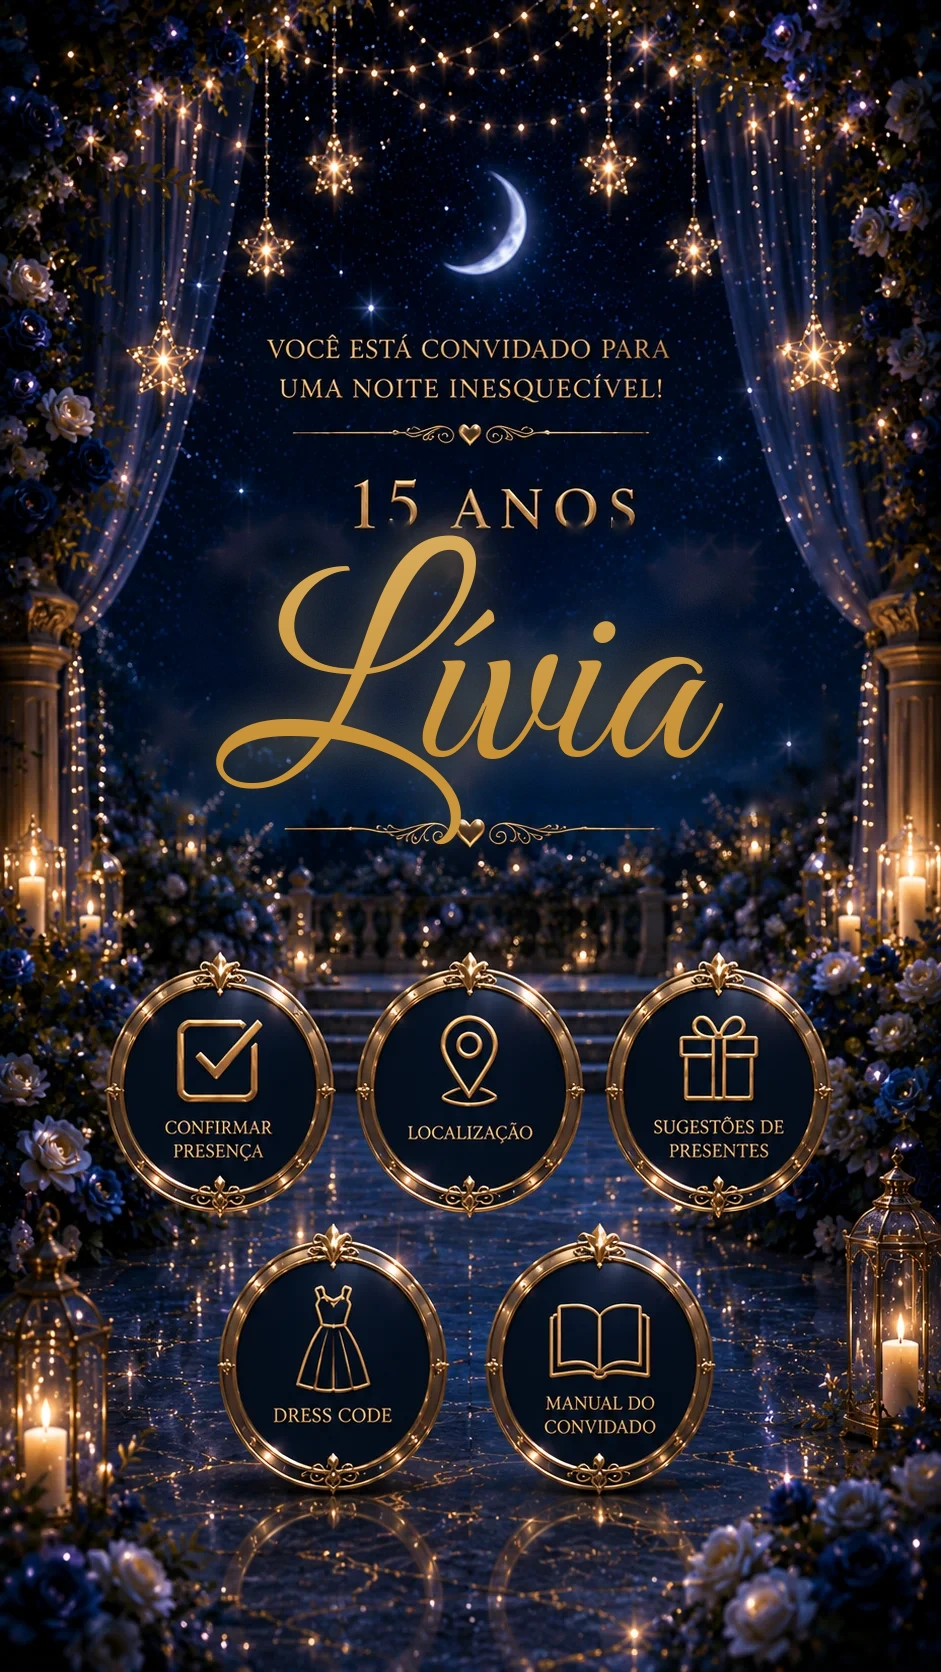
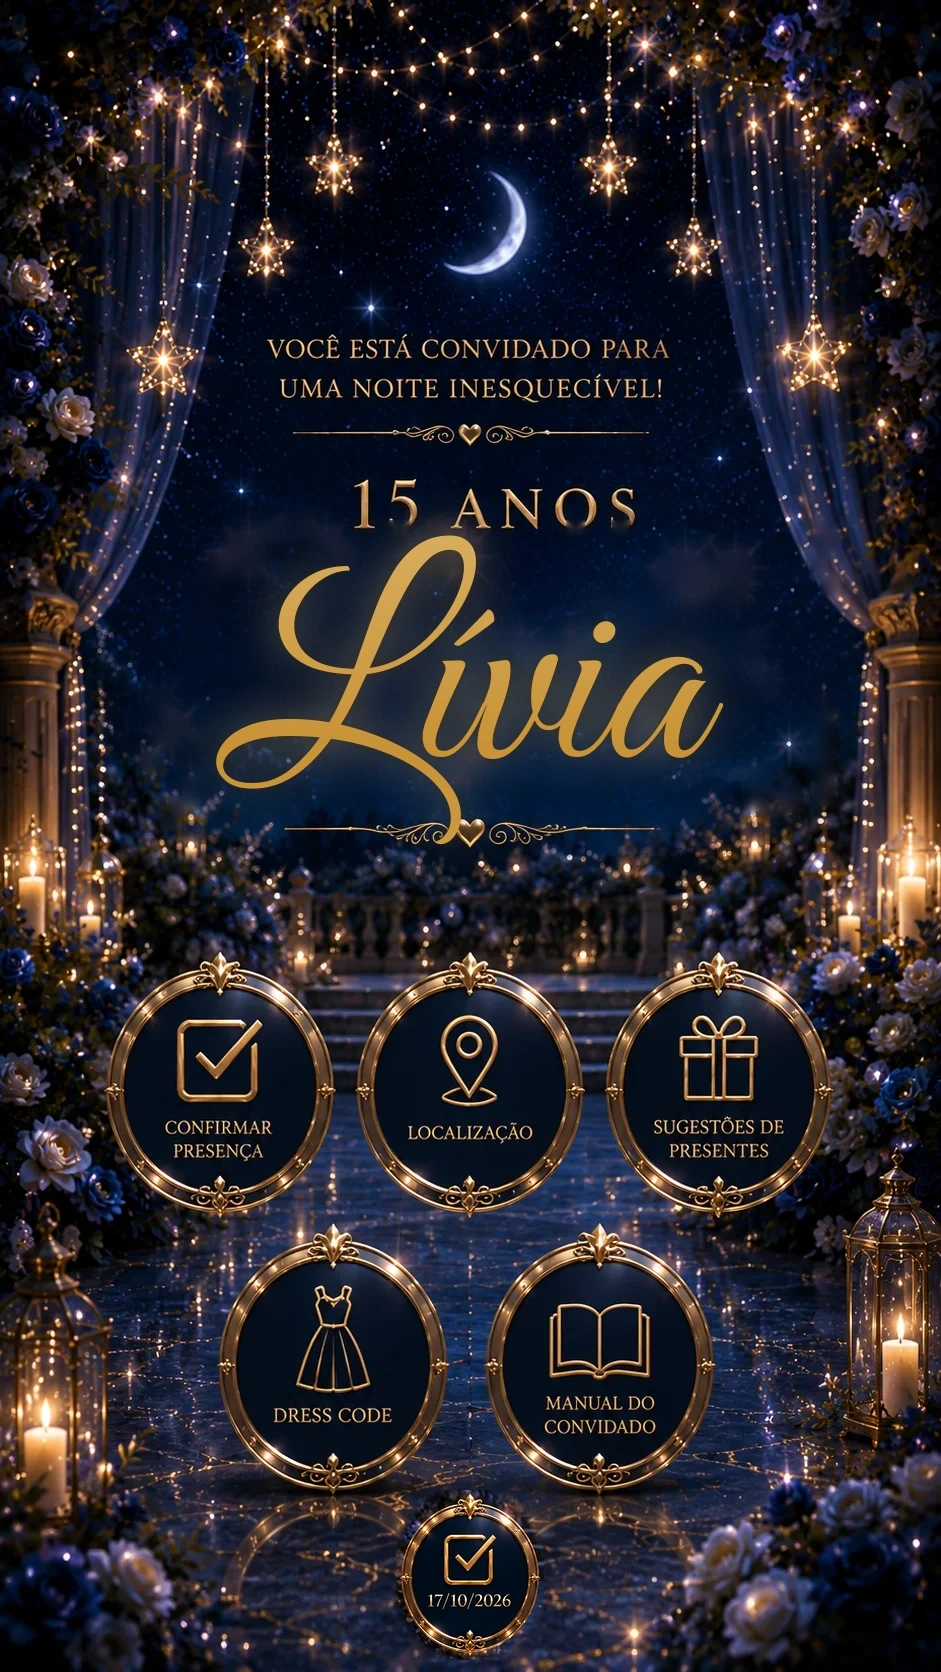
Ativa card de contagem regressiva com selo de data no card principal
- Adiciona 6º selo (17/10/2026) ao principal.webp, com hotspot
  "countdown" apontando para a nova tela.
- Substitui assets/contagem.webp (continha arte errada de
  "Sugestões de presentes") por um fundo provisório no estilo do
  convite, com a contagem regressiva já funcional.
- Corrige bug da engine que apagava o texto dos botões "Voltar"
  ao montar o resize handle do editor, deixando o botão da tela
  de contagem sem o texto "Voltar" visível.
- Ativa telas.contagem no config.js.

Claude-Session: https://claude.ai/code/session_01UtUau8H9FRHo3NiLzpVVWE

Changed region(s): [[0.4006, 0.8708, 0.5855, 0.9952]]

diff --git a/config.js b/config.js
@@ -51,7 +51,7 @@ window.CONFIG = {
     presentes: true,
     dresscode: true,
     manual: true,
-    contagem: false
+    contagem: true
   },
 
   // ----- TEXTOS DOS BOTÕES -----------------------------------------------
@@ -93,7 +93,8 @@ window.CONFIG = {
         map: { left:40.491117772523374, top:59.54541978412351, width:19.292465283626143, height:11.399863780795407 },
         gift: { left:66.8695855250401, top:59.53459410174959, width:19.567092651757186, height:11.52034966267883 },
         dress: { left:25.792347868410555, top:75.87521170693273, width:19.362622928314696, height:11.520362831944187 },
-        manual: { left:54.14692741613418, top:75.94016052632111, width:19.8402587110623, height:11.567308159141266 }
+        manual: { left:54.14692741613418, top:75.94016052632111, width:19.8402587110623, height:11.567308159141266 },
+        countdown: { left:42.08289054197662, top:89.11483253588517, width:15.727948990435706, height:10.167464114832537 }
   },
 
   // ----- CONTAGEM REGRESSIVA ---------------------------------------------

diff --git a/index.html b/index.html
@@ -737,12 +737,10 @@
 
       Object.entries(buttons).forEach(([key,el])=>{
         if(!el) return;
-        if(key === "counter"){
+        if(!el.querySelector(".resize")){
           const resizeHandle = document.createElement("span");
           resizeHandle.className = "resize";
           el.appendChild(resizeHandle);
-        } else {
-          el.innerHTML = '<span class="resize"></span>';
         }
         el.addEventListener("pointerdown", e=>{
           if(!document.body.classList.contains("editor-on")) return;
